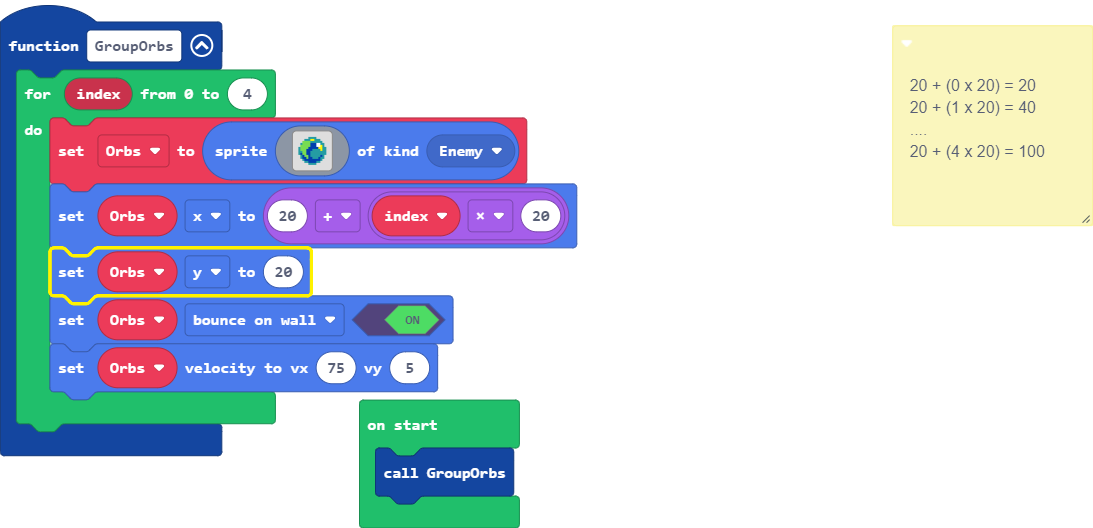
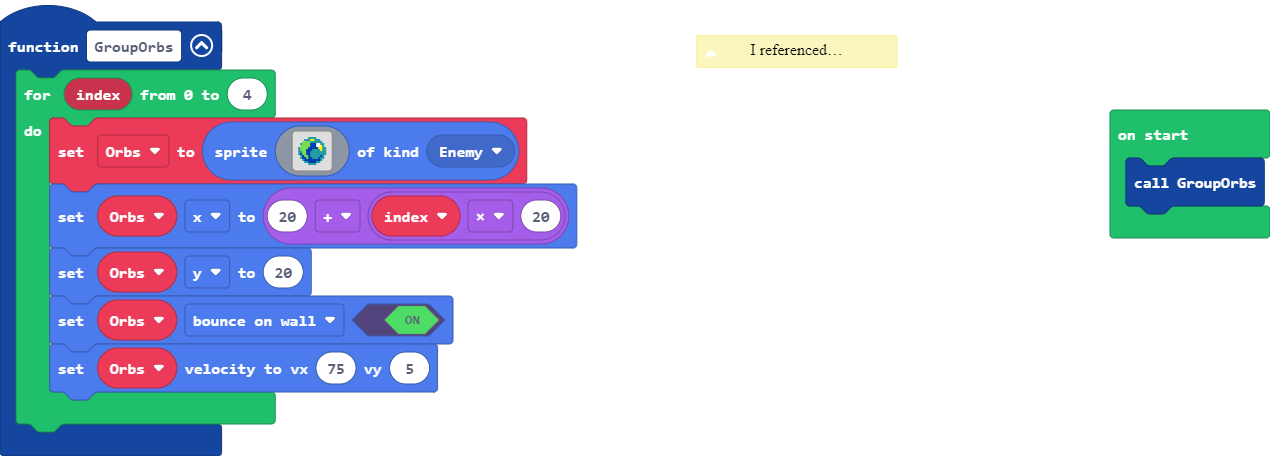
Update pxt.json, main.blocks, main.ts

diff --git a/main.ts b/main.ts
@@ -1,11 +1,5 @@
 /**
- * 20 + (0 x 20) = 20
- * 
- * 20 + (1 x 20) = 40
- * 
- * ....
- * 
- * 20 + (4 x 20) = 100
+ * I referenced MakeCode Arcade Beginner's videos - Group of Sprites on Youtube.
  */
 function GroupOrbs () {
     for (let index = 0; index <= 4; index++) {
